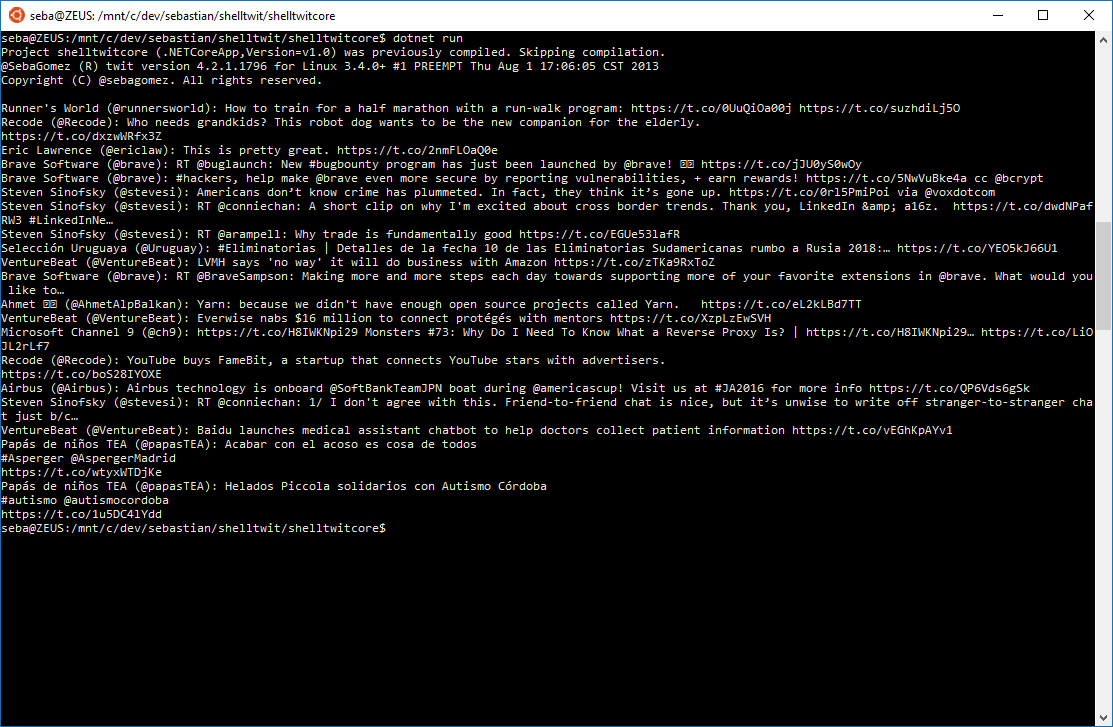
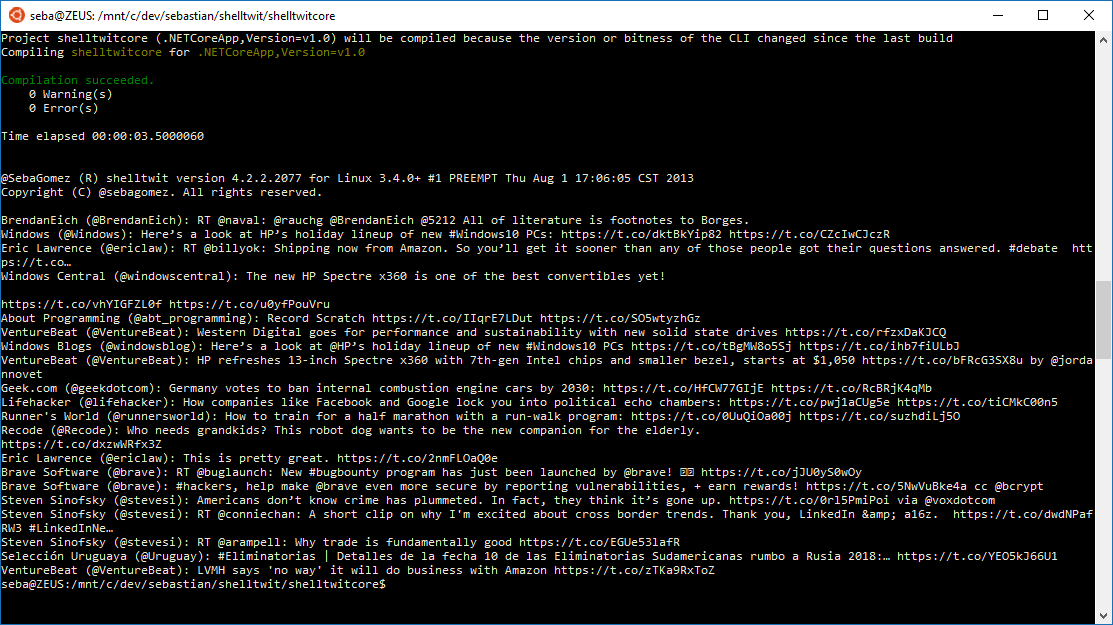
minor improvements

Changed region(s): [[0.0, 0.0, 1.0, 0.9424], [0.9775, 0.9728, 1.0, 1.0], [0.7332, 0.456, 0.7637, 0.4864]]

diff --git a/shelltwit/Properties/AssemblyInfo.cs b/shelltwit/Properties/AssemblyInfo.cs
@@ -1,6 +1,6 @@
 using System.Reflection;
 
-[assembly: AssemblyTitle("@SebaGomez (R) twit")]
+[assembly: AssemblyTitle("@SebaGomez (R) shelltwit")]
 [assembly: AssemblyDescription("Minimalist command line Twitter client. Post a twit, view your timeline and mentions.")]
 [assembly: AssemblyConfiguration("No configuration needed")]
 [assembly: AssemblyProduct("shelltwit")]

diff --git a/CommonAssemblyInfo.cs b/CommonAssemblyInfo.cs
@@ -2,4 +2,4 @@
 
 [assembly: AssemblyCompany("Sebastián Gómez (@sebagomez)")]
 [assembly: AssemblyCopyright("Copyright (C) @sebagomez. All rights reserved.")]
-[assembly: AssemblyVersion("4.2.1.*")]
+[assembly: AssemblyVersion("4.2.2.*")]

diff --git a/README.md b/README.md
@@ -8,8 +8,8 @@ shelltwit
 shelltwit allows you to update your twitter status via command line.   
 It's a good example of twitter API calls with xAuth. It also has bit.ly integration for url shortening.
 
-<img src="res//Windows.PNG" alt="Works on my machine" width="700">
-<img src="res//Ubuntu.PNG" alt="Works on my machine" width="700">
+<img src="res//Windows.png" alt="shelltwit on windows" width="700">
+<img src="res//Ubuntu.png" alt="shelltwit on ubuntu" width="700">
 
 Little more (?) info about it at the original [blog post](http://sgomez.blogspot.com/2010/06/introducing-shelltwit.html)
 
@@ -31,8 +31,8 @@ In order to build the .net core project you need to run the [build.bat](./shellt
 This build has been tested on Ubuntu [WSL](https://en.wikipedia.org/wiki/Windows_Subsystem_for_Linux), and it [works on my machine](https://blog.codinghorror.com/the-works-on-my-machine-certification-program/) <img src="res//works on my machine.png" alt="Works on my machine" height="50">.
 
 ```
-Command line Twitter client running on Microsoft Windows 10.0.14393
-Copyright c 2010-2016 v4.2.0.692
+@SebaGomez (R) shelltwit version 4.2.2.2046 for Microsoft Windows 10.0.14393
+Copyright (C) @sebagomez. All rights reserved.
 
 Usage: twit /q <query>|/c|/tl|/m|/l|/u <user>|/?|<status> [<mediaPath>]
 
